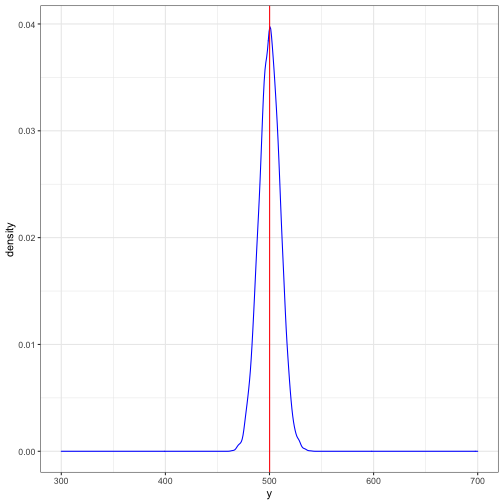
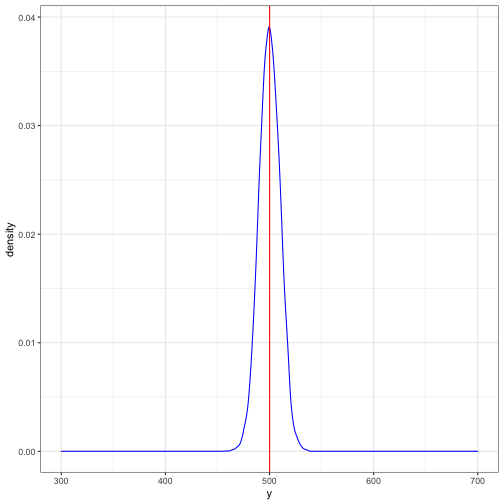
Update

diff --git a/slides/class_1/class_1.html b/slides/class_1/class_1.html
@@ -40,7 +40,8 @@ class: center, middle, inverse, title-slide
 .pull-left[
 ![not](not.png)
 ]
--- 
+
+--
 
 .pull-right[
 ![nailedit](nailedit.jpeg)
@@ -145,16 +146,16 @@ Supongamos que `\(\mathbf{y}: \{y_{1}, y_{2}, y_{3}, \dots, y_{n}\}\)` represent
 ## # A tibble: 10 × 3
 ##       mu       e     y
 ##    &lt;dbl&gt;   &lt;dbl&gt; &lt;dbl&gt;
-##  1   500  -4.60   495.
-##  2   500  -4.26   496.
-##  3   500  -6.33   494.
-##  4   500   8.73   509.
-##  5   500  -0.915  499.
-##  6   500  -2.91   497.
-##  7   500  18.5    519.
-##  8   500   4.42   504.
-##  9   500 -14.6    485.
-## 10   500   0.560  501.
+##  1   500 -10.0    490.
+##  2   500  -0.258  500.
+##  3   500 -10.7    489.
+##  4   500  -2.51   497.
+##  5   500 -15.1    485.
+##  6   500   5.20   505.
+##  7   500  -0.546  499.
+##  8   500  -1.13   499.
+##  9   500   3.01   503.
+## 10   500  10.7    511.
 ```
 
 ---
@@ -167,16 +168,16 @@ Supongamos que `\(\mathbf{y}: \{y_{1}, y_{2}, y_{3}, \dots, y_{n}\}\)` represent
 ## # A tibble: 10 × 3
 ##       mu       e     y
 ##    &lt;dbl&gt;   &lt;dbl&gt; &lt;dbl&gt;
-##  1   500  -4.60   495.
-##  2   500  -4.26   496.
-##  3   500  -6.33   494.
-##  4   500   8.73   509.
-##  5   500  -0.915  499.
-##  6   500  -2.91   497.
-##  7   500  18.5    519.
-##  8   500   4.42   504.
-##  9   500 -14.6    485.
-## 10   500   0.560  501.
+##  1   500 -10.0    490.
+##  2   500  -0.258  500.
+##  3   500 -10.7    489.
+##  4   500  -2.51   497.
+##  5   500 -15.1    485.
+##  6   500   5.20   505.
+##  7   500  -0.546  499.
+##  8   500  -1.13   499.
+##  9   500   3.01   503.
+## 10   500  10.7    511.
 ```
 
 ]
@@ -185,7 +186,7 @@ Supongamos que `\(\mathbf{y}: \{y_{1}, y_{2}, y_{3}, \dots, y_{n}\}\)` represent
 
 ```
 ## Promedio       SD     Gini  max-min 
-## 500.0000  10.0944   0.0114  76.0054
+## 500.0000  10.0012   0.0113  77.5443
 ```
 ]
 
@@ -201,18 +202,18 @@ Supongamos que `\(\mathbf{y}: \{y_{1}, y_{2}, y_{3}, \dots, y_{n}\}\)` represent
 
 ```
 ## # A tibble: 10 × 3
-##       mu      e     y
-##    &lt;dbl&gt;  &lt;dbl&gt; &lt;dbl&gt;
-##  1   500 -230.   270.
-##  2   500   90.3  590.
-##  3   500  -99.6  400.
-##  4   500   73.1  573.
-##  5   500  -10.0  490.
-##  6   500 -125.   375.
-##  7   500   48.3  548.
-##  8   500  -18.4  482.
-##  9   500  178.   678.
-## 10   500   16.9  517.
+##       mu       e     y
+##    &lt;dbl&gt;   &lt;dbl&gt; &lt;dbl&gt;
+##  1   500 -81.2    419.
+##  2   500  27.0    527.
+##  3   500 -92.3    408.
+##  4   500 -20.7    479.
+##  5   500  44.0    544.
+##  6   500 -69.1    431.
+##  7   500   0.798  501.
+##  8   500 -77.2    423.
+##  9   500  34.6    535.
+## 10   500 -31.4    469.
 ```
 
 ---
@@ -222,18 +223,18 @@ Supongamos que `\(\mathbf{y}: \{y_{1}, y_{2}, y_{3}, \dots, y_{n}\}\)` represent
 
 ```
 ## # A tibble: 10 × 3
-##       mu      e     y
-##    &lt;dbl&gt;  &lt;dbl&gt; &lt;dbl&gt;
-##  1   500 -230.   270.
-##  2   500   90.3  590.
-##  3   500  -99.6  400.
-##  4   500   73.1  573.
-##  5   500  -10.0  490.
-##  6   500 -125.   375.
-##  7   500   48.3  548.
-##  8   500  -18.4  482.
-##  9   500  178.   678.
-## 10   500   16.9  517.
+##       mu       e     y
+##    &lt;dbl&gt;   &lt;dbl&gt; &lt;dbl&gt;
+##  1   500 -81.2    419.
+##  2   500  27.0    527.
+##  3   500 -92.3    408.
+##  4   500 -20.7    479.
+##  5   500  44.0    544.
+##  6   500 -69.1    431.
+##  7   500   0.798  501.
+##  8   500 -77.2    423.
+##  9   500  34.6    535.
+## 10   500 -31.4    469.
 ```
 
 ]
@@ -242,7 +243,7 @@ Supongamos que `\(\mathbf{y}: \{y_{1}, y_{2}, y_{3}, \dots, y_{n}\}\)` represent
 
 ```
 ## Promedio       SD     Gini  max-min 
-##  499.000  101.160    0.114  867.385
+##  500.000   99.925    0.113  840.665
 ```
 ]
 
@@ -259,18 +260,18 @@ Supongamos que `\(\mathbf{y}: \{y_{1}, y_{2}, y_{3}, \dots, y_{n}\}\)` represent
 
 ```
 ## # A tibble: 10 × 3
-##       mu      e       y
-##    &lt;dbl&gt;  &lt;dbl&gt;   &lt;dbl&gt;
-##  1   500 -183.   317.  
-##  2   500 -492.     8.37
-##  3   500  368.   868.  
-##  4   500  324.   824.  
-##  5   500  297.   797.  
-##  6   500 -221.   279.  
-##  7   500   39.4  539.  
-##  8   500 -566.   -65.8 
-##  9   500  503.  1003.  
-## 10   500 -138.   362.
+##       mu      e      y
+##    &lt;dbl&gt;  &lt;dbl&gt;  &lt;dbl&gt;
+##  1   500  438.   938. 
+##  2   500  394.   894. 
+##  3   500 -484.    16.0
+##  4   500 -608.  -108. 
+##  5   500 -245.   255. 
+##  6   500  -27.5  473. 
+##  7   500   38.4  538. 
+##  8   500 -275.   225. 
+##  9   500 -432.    67.6
+## 10   500  303.   803.
 ```
 
 ---
@@ -281,18 +282,18 @@ Supongamos que `\(\mathbf{y}: \{y_{1}, y_{2}, y_{3}, \dots, y_{n}\}\)` represent
 
 ```
 ## # A tibble: 10 × 3
-##       mu      e       y
-##    &lt;dbl&gt;  &lt;dbl&gt;   &lt;dbl&gt;
-##  1   500 -183.   317.  
-##  2   500 -492.     8.37
-##  3   500  368.   868.  
-##  4   500  324.   824.  
-##  5   500  297.   797.  
-##  6   500 -221.   279.  
-##  7   500   39.4  539.  
-##  8   500 -566.   -65.8 
-##  9   500  503.  1003.  
-## 10   500 -138.   362.
+##       mu      e      y
+##    &lt;dbl&gt;  &lt;dbl&gt;  &lt;dbl&gt;
+##  1   500  438.   938. 
+##  2   500  394.   894. 
+##  3   500 -484.    16.0
+##  4   500 -608.  -108. 
+##  5   500 -245.   255. 
+##  6   500  -27.5  473. 
+##  7   500   38.4  538. 
+##  8   500 -275.   225. 
+##  9   500 -432.    67.6
+## 10   500  303.   803.
 ```
 
 ]
@@ -301,7 +302,7 @@ Supongamos que `\(\mathbf{y}: \{y_{1}, y_{2}, y_{3}, \dots, y_{n}\}\)` represent
 
 ```
 ## Promedio       SD     Gini  max-min 
-##  498.000  499.226    0.565 3725.490
+##  496.000  503.432    0.572 3783.542
 ```
 ]
 
@@ -426,10 +427,10 @@ Supongamos que la siguiente ecuación describe el estado de salud de una persona
 ## # Groups:   c [2]
 ##   c        e          promedio_salud
 ##   &lt;chr&gt;    &lt;chr&gt;               &lt;dbl&gt;
-## 1 no-univ. fumador             0.992
-## 2 no-univ. no-fumador          3.01 
-## 3 univ.    fumador             4.01 
-## 4 univ.    no-fumador          6.01
+## 1 no-univ. fumador              1.01
+## 2 no-univ. no-fumador           3.00
+## 3 univ.    fumador              3.98
+## 4 univ.    no-fumador           6.02
 ```
 
 ]
@@ -615,6 +616,40 @@ Supongamos que la siguiente ecuación describe el salario de una persona:
 .pull-right[
 &lt;img src="class_1_files/figure-html/unnamed-chunk-16-1.png" width="300px" /&gt;
 ]
+
+---
+
+## El rol del la suerte
+
+--
+.pull-left[
+
+```
+## # A tibble: 10 × 3
+##    c      e         salario
+##    &lt;chr&gt;  &lt;chr&gt;       &lt;dbl&gt;
+##  1 hombre doctor(a)    591.
+##  2 hombre doctor(a)   1117.
+##  3 hombre doctor(a)    600.
+##  4 hombre doctor(a)    542.
+##  5 hombre doctor(a)    514.
+##  6 hombre doctor(a)    486.
+##  7 hombre doctor(a)   1004.
+##  8 hombre doctor(a)    444.
+##  9 hombre doctor(a)    875.
+## 10 hombre doctor(a)    265.
+```
+
+]
+.pull-right[
+&lt;img src="class_1_files/figure-html/unnamed-chunk-18-1.png" width="300px" /&gt;
+]
+
+- Que explica las diferencias de salario entre personas con las mismas "circunstancias" y mismo nivel de "esfuerzo"?
+
+- Suerte. Que es? la aleatoriedad de la vida? circunstancias no observadas (e.j. talento)?
+
+- Debemos corregir estas desigualdades? Cuanta desigualdad de este tipo podemos tolerar?
 
 
 ---
